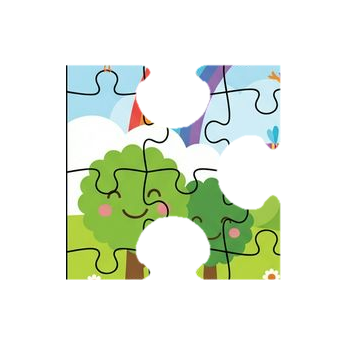
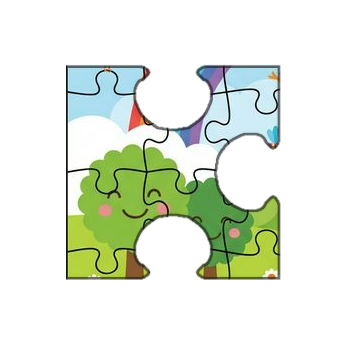
update

diff --git a/tools/puzzle_piece_cutter.py b/tools/puzzle_piece_cutter.py
@@ -166,8 +166,27 @@ def cut_pieces(image_path: str, masks_dir: str, output_dir: str) -> None:
             cmin_mask, cmax_mask = np.where(cols_with_content)[0][[0, -1]]
             
             # Recorte desde la imagen fuente y su máscara
-            crop_rgb = src_arr[rmin_mask:rmax_mask + 1, cmin_mask:cmax_mask + 1, :3]
+            crop_rgb = src_arr[rmin_mask:rmax_mask + 1, cmin_mask:cmax_mask + 1, :3].copy()
             crop_alpha = mask_arr[rmin_mask:rmax_mask + 1, cmin_mask:cmax_mask + 1]
+            
+            # --- INNER DARK STROKE ---
+            from PIL import ImageFilter
+            c_mask_img = Image.fromarray(crop_alpha, "L")
+            # FIND_EDGES detects the boundaries of the mask
+            edge_img = c_mask_img.filter(ImageFilter.FIND_EDGES)
+            # Thicken the stroke slightly (5x5 kernel as requested)
+            edge_img = edge_img.filter(ImageFilter.MaxFilter(5))
+            
+            edge_arr = np.array(edge_img, dtype=np.float32)
+            # Factor de opacidad al 50%
+            edge_opacity = (edge_arr / 255.0) * 0.50
+            
+            # Oscurecer los The pixeles RGB The la the pieza The the the contorno The
+            for c_col in range(3):
+                crop_rgb[:, :, c_col] = (
+                    crop_rgb[:, :, c_col] * (1.0 - edge_opacity) + 30 * edge_opacity
+                ).astype(np.uint8)
+            # -------------------------
             
             # En dónde se ubica este bbox dentro del canvas unificado?
             # Su posición Y arranca en pad_v - (lo que sobresalió top)
